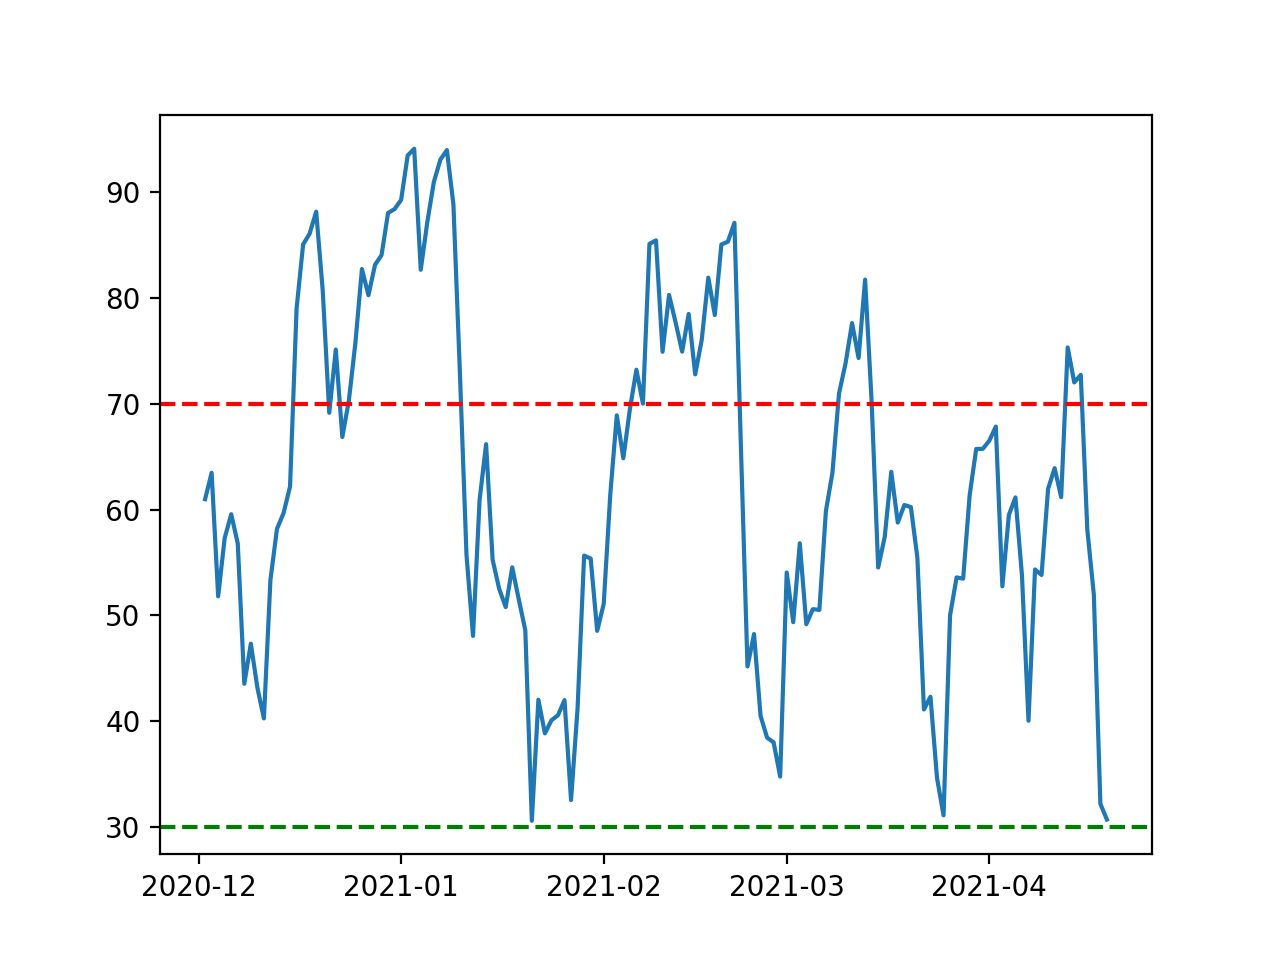
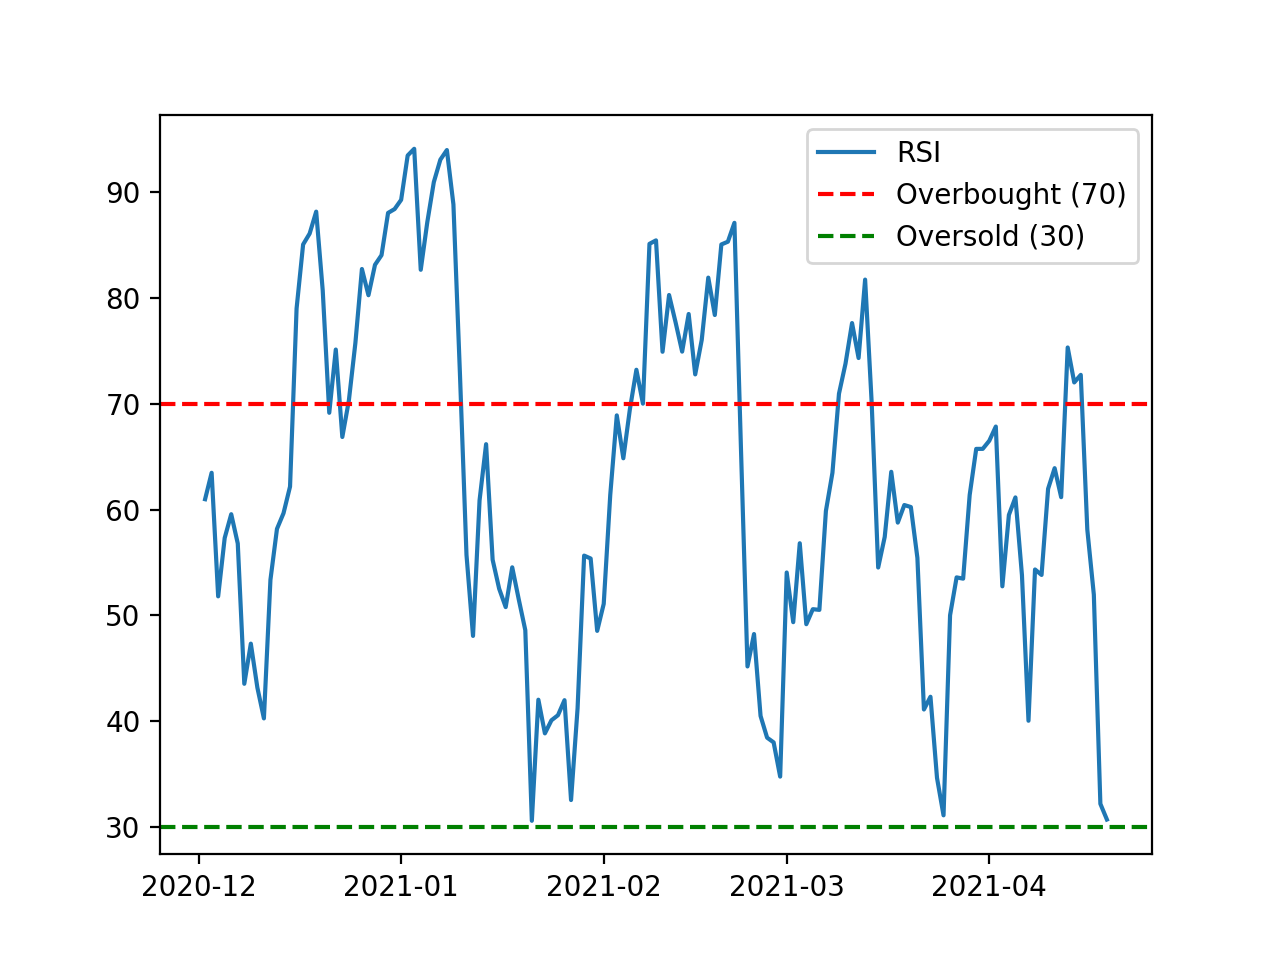
Add legend to plot_RSI

Changed region(s): [[0.625, 0.125, 0.9062, 0.2812]]

diff --git a/algofin/indicators.py b/algofin/indicators.py
@@ -34,9 +34,10 @@ def RSI(df, close, t=14):
     return 100 - 100 / (1 + rs)
 
 def plot_RSI(rsi, overbought=70, oversold=30):
-    plt.plot(rsi)
+    plt.plot(rsi, label='RSI')
     plt.axhline(y=70, color='r', linestyle='--', label='Overbought (70)')
     plt.axhline(y=30, color='g', linestyle='--', label='Oversold (30)')
+    plt.legend()
     plt.show()
 
 def WilliamsR(price, high, low, t=14):
